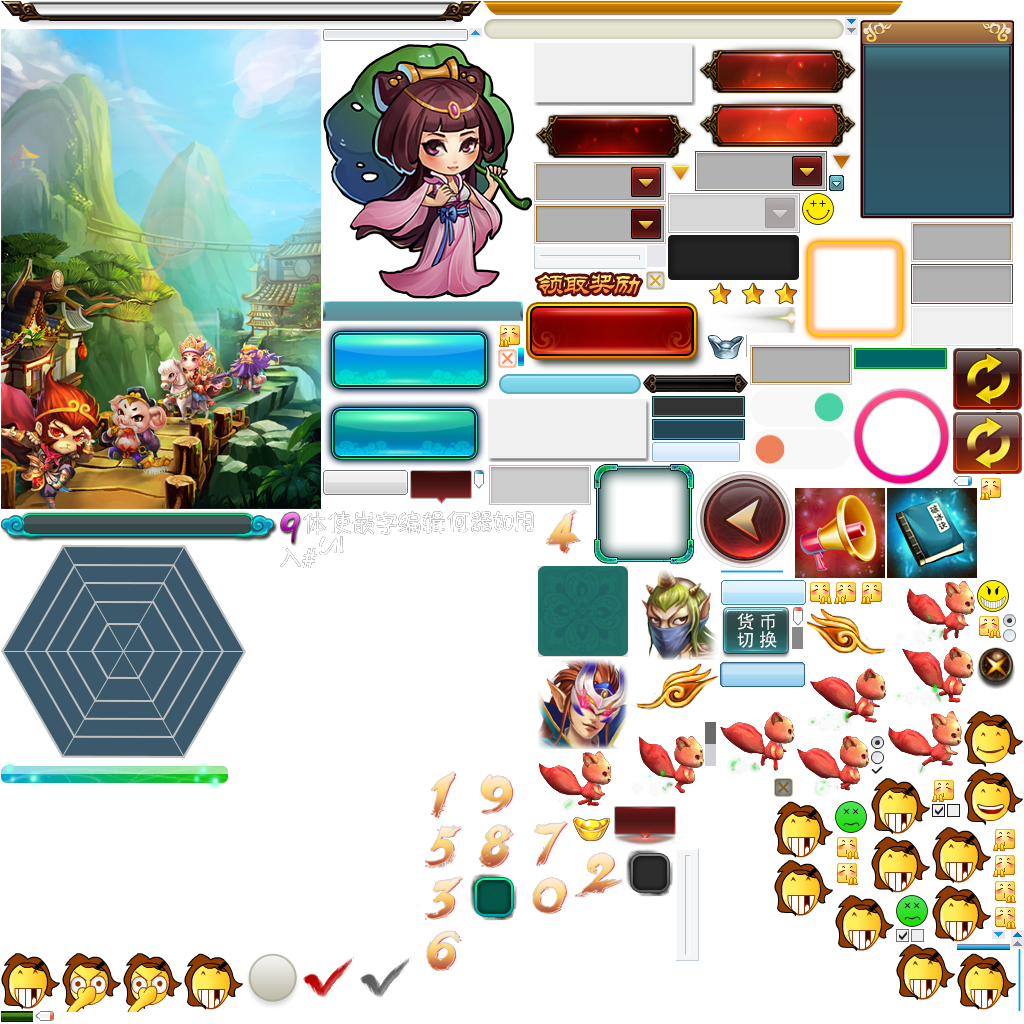
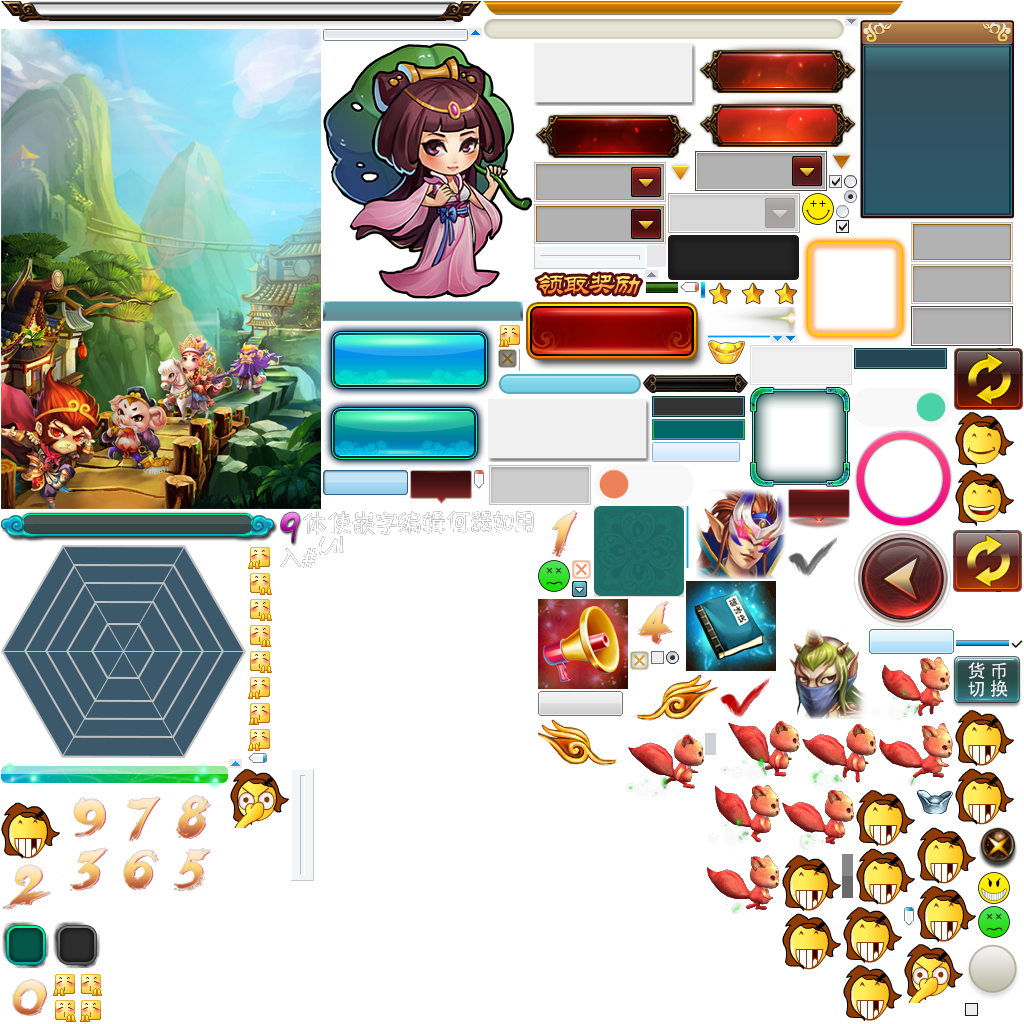
update progressBar res&code

diff --git a/src/main.ts b/src/main.ts
@@ -1,7 +1,10 @@
+import { MovieClipScene } from './MovieClip/MovieClipScene';
 import "phaser3";
 import { ImageScene } from "./Image/ImageScene";
 import { BagPanelScene } from "./TooqingUI/BagPanel/BagPanelScene";
 import { TreeNodeScene } from "./TreeNode/TreeNodeScene";
+import { PullToRefreshScene } from './PullToRefresh/PullToRefreshScene';
+import { BasicsScene } from './Basics/BasicsScene';
 
 var config = {
     type: Phaser.AUTO,
@@ -20,4 +23,4 @@ var config = {
 var game = new Phaser.Game(config);
 
 // 切换不同的scene演示不同的ui组件 
-game.scene.add('uiScene', ImageScene, true, { x: 0, y: 0 });
+game.scene.add('uiScene', BasicsScene, true, { x: 0, y: 0 });

diff --git a/src/Basics/BasicsScene.ts b/src/Basics/BasicsScene.ts
@@ -1,6 +1,6 @@
 import { GComponent, GProgressBar, GRoot, UIPackage } from "fairygui-phaser";
 
-class MyScene extends Phaser.Scene {
+export class BasicsScene extends Phaser.Scene {
     private _view: GComponent;
  
     private _timeDelta: number = 5;
